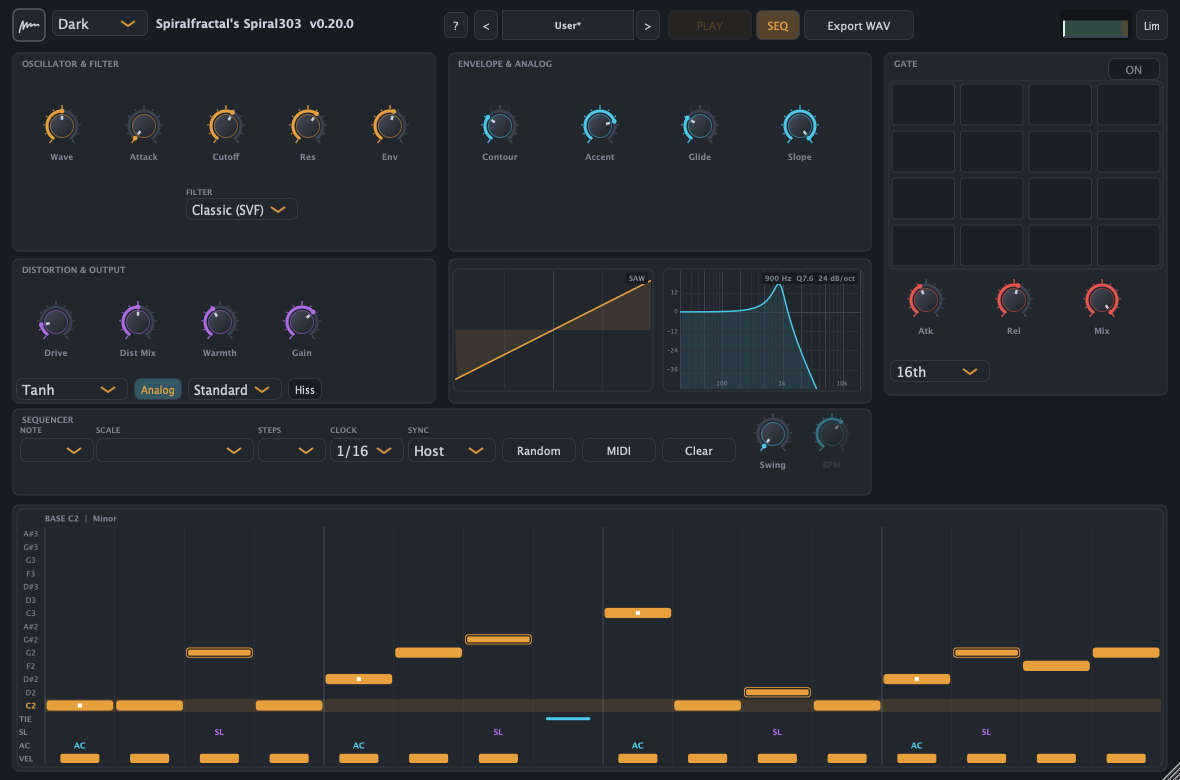
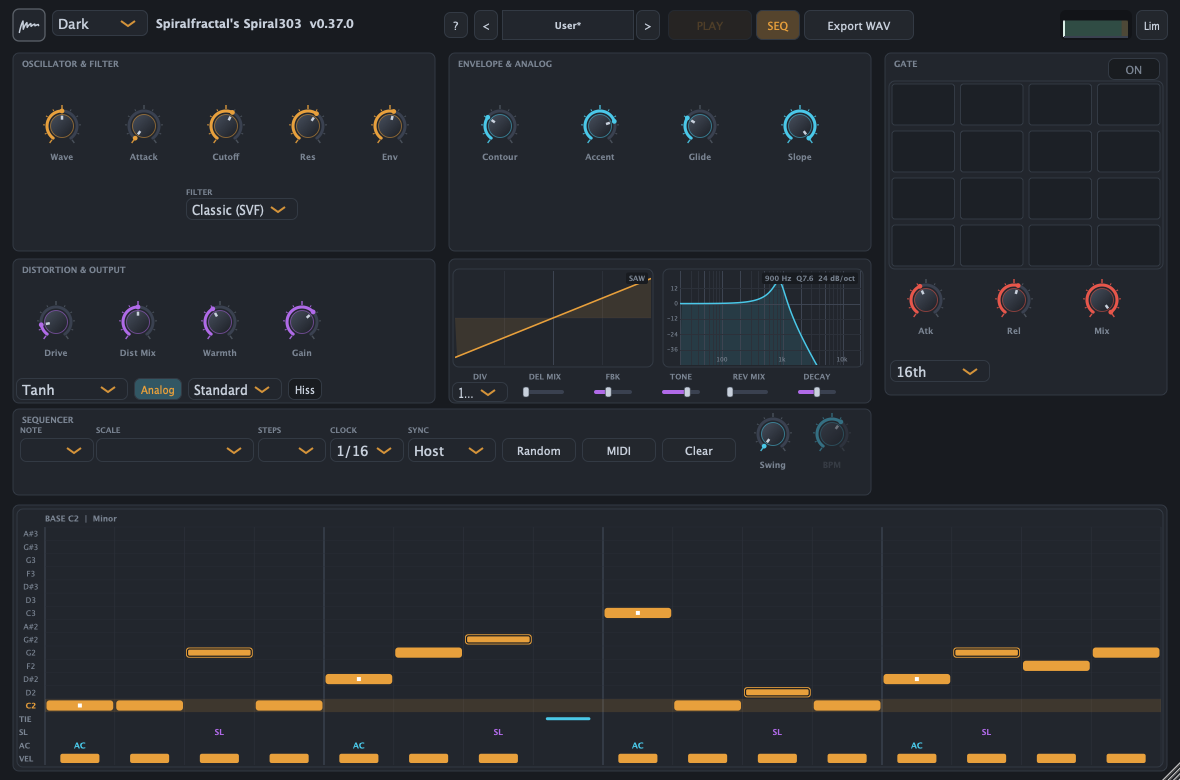
docs: refresh the marketing cards and the skin screenshots
The cards still advertised v0.20.0 with seven filter models and 27 presets, and
the screenshots predated the FX row. Copy is brought up to 0.37.0 (eight models,
102 presets, CLAP/LV2/WCLAP chips, MIDI both ways, 890 offline checks), the PNGs
are regenerated from the freshly painted ui-console.png, and the tracked
__pycache__ of the generator is dropped for a general gitignore rule.

diff --git a/docs/marketing/make_cards.py b/docs/marketing/make_cards.py
@@ -206,71 +206,73 @@ COPY = {
     "en": {
         "tagline": "ACID SYNTHESIZER & 303 SEQUENCER",
         "bullets": [
-            ("7 filter models", "classic 303 contour, diode and Moog ladders, "
+            ("8 filter models", "classic 303 contour, diode and Moog ladders, "
                                 "TPT SVF, Sallen-Key, one-pole, Vowel"),
             ("A filter that talks", "formant bank walks the voice through "
                                     "oo › oh › ah › ay › ee as you turn Cutoff"),
-            ("Spiral sequencer", "8/12/16/24/32 steps, 12 scales, tie / slide / "
+            ("Spiral sequencer", "4–32 steps, 12 scales, tie / slide / "
                                  "accent, 16-sector gate wheel"),
-            ("MIDI import", "drop a .mid — lowest line wins, your scale stays, "
-                            "tempo comes from the host clock"),
+            ("MIDI in and out", "drop a .mid — lowest line wins, your scale stays; "
+                                "export writes the pattern back as .mid"),
             ("4 UI skins", "flat dark, starship console, walnut, brushed metal — "
                            "the audio stays bit-identical"),
-            ("27 factory presets", "acid classics plus 10 psytrance lines, user "
-                                   "presets as plain JSON, drag & drop"),
+            ("102 factory presets", "acid, acid house and goa lines, user "
+                                    "presets as plain JSON, drag & drop"),
         ],
-        "chips": ["VST3", "AU", "STANDALONE", "macOS universal", "Windows", "Linux"],
-        "foot": "~0.2% of realtime CPU  ·  896 offline checks",
+        "chips": ["VST3", "AU", "CLAP", "LV2", "STANDALONE", "WCLAP",
+                  "macOS universal", "Windows", "Linux"],
+        "foot": "~0.2% of realtime CPU  ·  890 offline checks",
         "author": "by Spiralfractal",
     },
     "ru": {
         "tagline": "КИСЛОТНЫЙ СИНТЕЗАТОР И 303-СЕКВЕНСОР",
         "bullets": [
-            ("7 моделей фильтра", "классический контур 303, диодная и Moog-"
+            ("8 моделей фильтра", "классический контур 303, диодная и Moog-"
                                   "лестница, TPT SVF, Sallen-Key, однополюсник, Vowel"),
             ("Фильтр, который говорит", "банк формант ведёт голос по траектории "
                                         "у › о › а › э › и, ручка Cutoff = положение во рту"),
-            ("Секвенсор-спираль", "8/12/16/24/32 шага, 12 гамм, tie / slide / accent "
+            ("Секвенсор-спираль", "4–32 шага, 12 гамм, tie / slide / accent "
                                   "на ступени, gate-колесо на 16 секторов"),
-            ("Импорт MIDI", "бросьте .mid в окно: берётся самая низкая дорожка, строй "
-                            "остаётся ваш, темп — из часов хоста"),
+            ("MIDI туда и обратно", "бросьте .mid: берётся самая низкая дорожка, строй "
+                                    "остаётся ваш; экспорт пишет паттерн обратно"),
             ("4 скина интерфейса", "тёмный, пульт космического корабля, орех, "
                                    "шлифованный металл — звук бит-в-бит"),
-            ("27 фабричных пресетов", "известные acid-линии и 10 psytrance-паттернов, "
-                                      "свои пресеты — обычный JSON"),
+            ("102 фабричных пресета", "acid, acid house и goa-линии, свои пресеты — "
+                                      "обычный JSON"),
         ],
-        "chips": ["VST3", "AU", "STANDALONE", "macOS universal", "Windows", "Linux"],
-        "foot": "~0,2% реального времени по CPU  ·  896 офлайн-проверок",
+        "chips": ["VST3", "AU", "CLAP", "LV2", "STANDALONE", "WCLAP",
+                  "macOS universal", "Windows", "Linux"],
+        "foot": "~0,2% реального времени по CPU  ·  890 офлайн-проверок",
         "author": "автор Spiralfractal",
     },
 }
 
-VERSION = "v0.20.0"
+VERSION = "v0.37.0"
 
 # The 4:5 Instagram card carries four highlights instead of six — the caption
 # does the rest of the talking.
 SHORT = {
     "en": [
-        ("A filter that talks", "seven models — the classic 303 contour, diode and "
+        ("A filter that talks", "eight models — the classic 303 contour, diode and "
                                 "Moog ladders, TPT SVF, Sallen-Key, one-pole — plus a "
                                 "formant bank that walks the voice oo › oh › ah › ay › ee "
                                 "as you turn Cutoff"),
-        ("Spiral sequencer", "8/12/16/24/32 steps, 12 scales, tie / slide / accent per "
+        ("Spiral sequencer", "4–32 steps, 12 scales, tie / slide / accent per "
                              "step, 16-sector gate wheel"),
-        ("MIDI import", "drop a .mid into the window — the lowest line wins, your scale "
-                        "stays, tempo comes from the host clock"),
+        ("MIDI in and out", "drop a .mid into the window — the lowest line wins, your "
+                            "scale stays; export writes the pattern back as .mid"),
         ("4 UI skins", "flat dark, starship console, walnut, brushed metal — the audio "
                        "stays bit-identical across all four"),
     ],
     "ru": [
-        ("Фильтр, который говорит", "семь моделей: классический контур 303, диодная и "
+        ("Фильтр, который говорит", "восемь моделей: классический контур 303, диодная и "
                                     "Moog-лестница, TPT SVF, Sallen-Key, однополюсник — и "
                                     "банк формант, ведущий голос у › о › а › э › и от ручки "
                                     "Cutoff"),
-        ("Секвенсор-спираль", "8/12/16/24/32 шага, 12 гамм, tie / slide / accent на "
+        ("Секвенсор-спираль", "4–32 шага, 12 гамм, tie / slide / accent на "
                               "ступени, gate-колесо на 16 секторов"),
-        ("Импорт MIDI", "бросьте .mid в окно: берётся самая низкая дорожка, строй "
-                        "остаётся ваш, темп — из часов хоста"),
+        ("MIDI туда и обратно", "бросьте .mid в окно: берётся самая низкая дорожка, строй "
+                               "остаётся ваш; экспорт пишет паттерн обратно"),
         ("4 скина интерфейса", "тёмный, пульт космического корабля, орех, шлифованный "
                                "металл — звук бит-в-бит при любом из них"),
     ],
@@ -279,19 +281,19 @@ SHORT = {
 # The square card is a glance: six heads, one short line each.
 SQUARE = {
     "en": [
-        ("7 filter models", "303 contour, ladders, SVF, Sallen-Key, Vowel"),
+        ("8 filter models", "303 contour, ladders, SVF, Sallen-Key, Vowel"),
         ("A filter that talks", "formants walk oo › oh › ah › ay › ee"),
         ("Spiral sequencer", "up to 32 steps, 12 scales, gate wheel"),
         ("Tie · slide · accent", "the 303 articulation, per step"),
-        ("MIDI import", "drop a .mid, keep your scale"),
+        ("MIDI in and out", "drop a .mid, keep your scale"),
         ("4 UI skins", "the audio stays bit-identical"),
     ],
     "ru": [
-        ("7 моделей фильтра", "контур 303, лестницы, SVF, Sallen-Key, Vowel"),
+        ("8 моделей фильтра", "контур 303, лестницы, SVF, Sallen-Key, Vowel"),
         ("Фильтр, который говорит", "форманты идут у › о › а › э › и"),
         ("Секвенсор-спираль", "до 32 шагов, 12 гамм, gate-колесо"),
         ("Tie · slide · accent", "артикуляция 303 на каждом шаге"),
-        ("Импорт MIDI", "бросьте .mid — строй останется ваш"),
+        ("MIDI туда и обратно", "бросьте .mid — строй останется ваш"),
         ("4 скина интерфейса", "звук бит-в-бит при любом скине"),
     ],
 }
